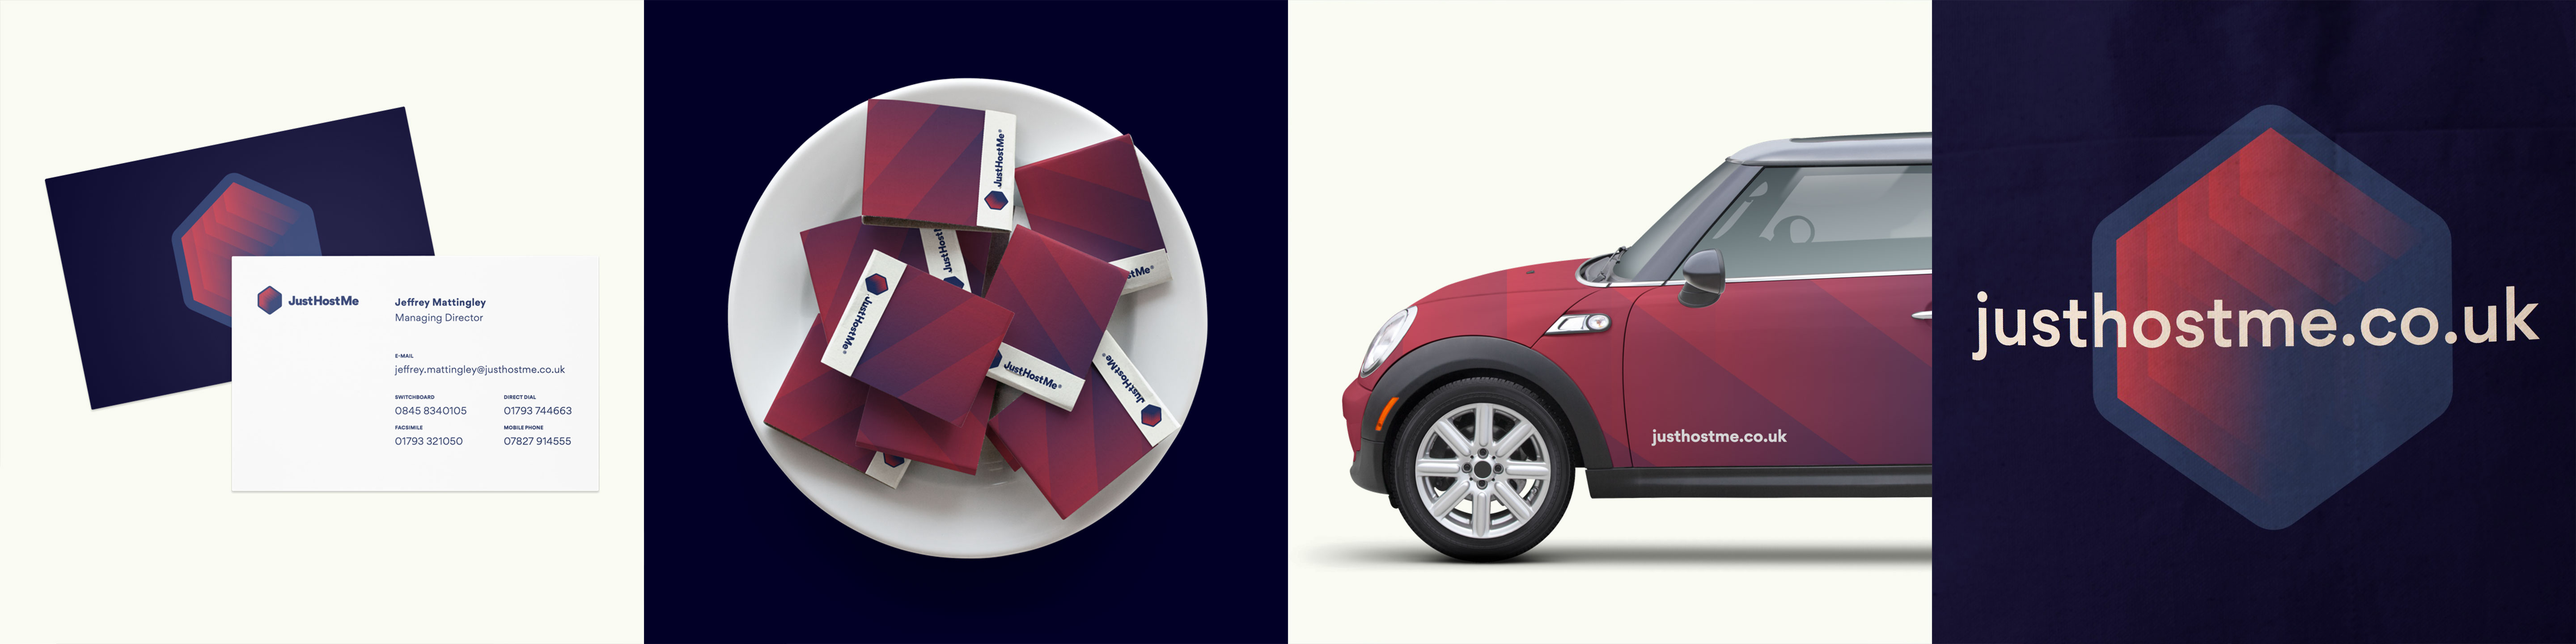
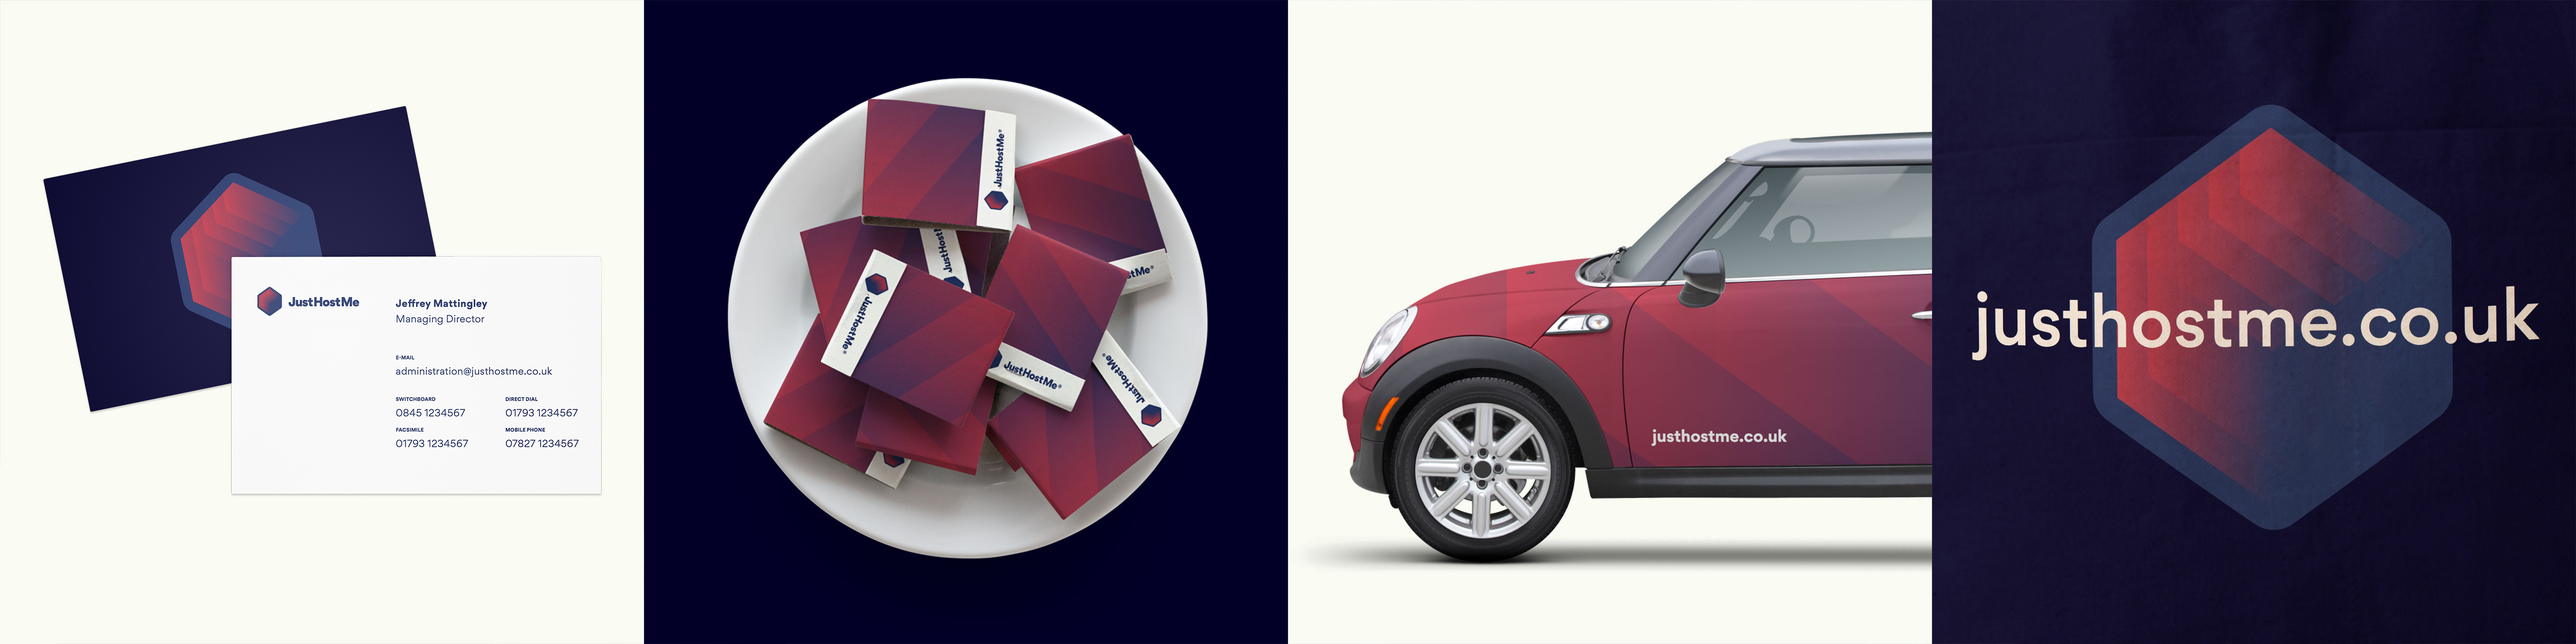
Update JHM business cards to hide phone numbers

diff --git a/src/pages/projects/echo1/index.md b/src/pages/projects/echo1/index.md
@@ -37,9 +37,9 @@ The idea of building organisations void of hierarchy sounded very exciting, but 
 
 We were brought on to the project at a very early stage of the company's inception—a time when they had a very clear image of how they wanted to operate, but were still unsure about the sort of businesses they would be investing on. So we had to build a brand that looked interesting and established some sort of connection with the company's core businesses, but was still broad and generic enough to allow for the company to explore several different business areas without feeling like they needed to rebrand every single time. All of this without being able to rely on any type of imagery — no product photos, no headquarters and no team photos.
 
-Our solution was to come up with a brand system that relied heavily on basic abstract shapes, paired with a set of warm gradients and snappy animation. We employed this system extensively [throughout the website](https://www.echo1.co) and the brand applications, creating a very tight and easily recognisable brand, that can evolve gracefully over time, as the products and companies Echo1 invests on begin to shape the company's values more clearly.
+Our solution was to come up with a brand system that relied heavily on basic abstract shapes, paired with a set of warm gradients and snappy animations. We employed this system extensively [throughout the website](https://www.echo1.co) and the brand applications, creating a very tight and easily recognisable brand, that can evolve gracefully over time, as the products and companies Echo1 invests on begin to shape the company's values more clearly.
 
-These shapes and colours are complemented by the very quirky [Niveau Grotesk](https://www.hvdfonts.com/fonts/niveau-grotesk) on headings, paired with the sobering [Warnock Pro](https://typekit.com/fonts/warnock) for body copy.
+These shapes and colours are complemented by the quirky [Niveau Grotesk](https://www.hvdfonts.com/fonts/niveau-grotesk) on headings, paired with the sobering [Warnock Pro](https://typekit.com/fonts/warnock) for body copy.
 
 </article>
 
